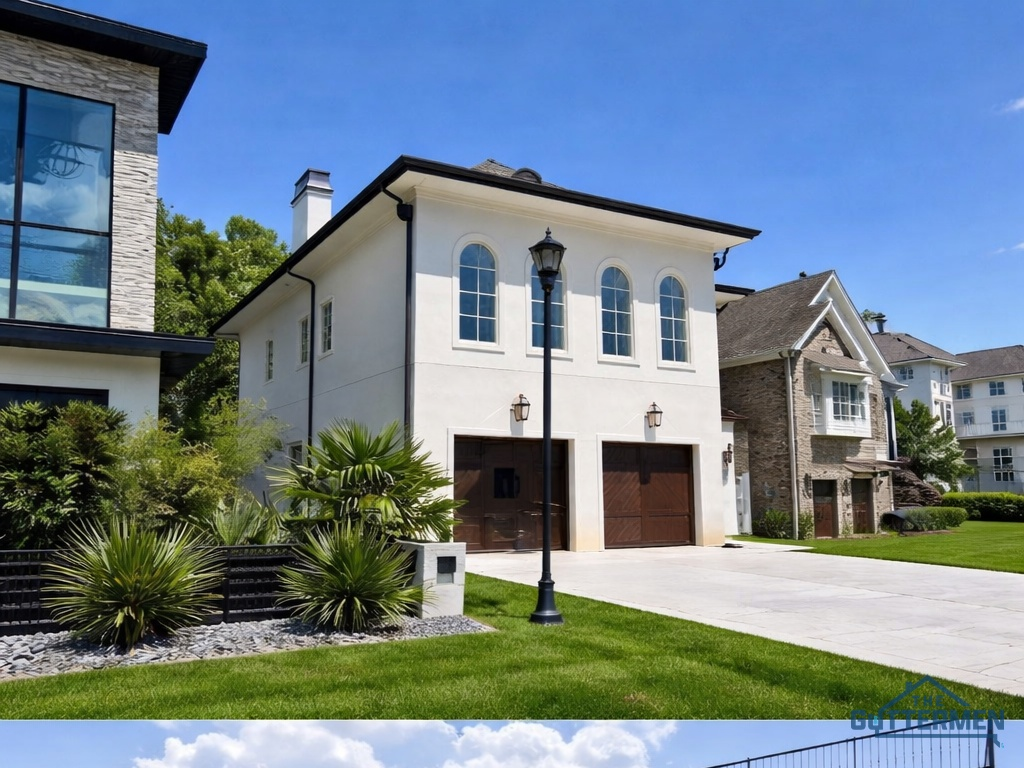
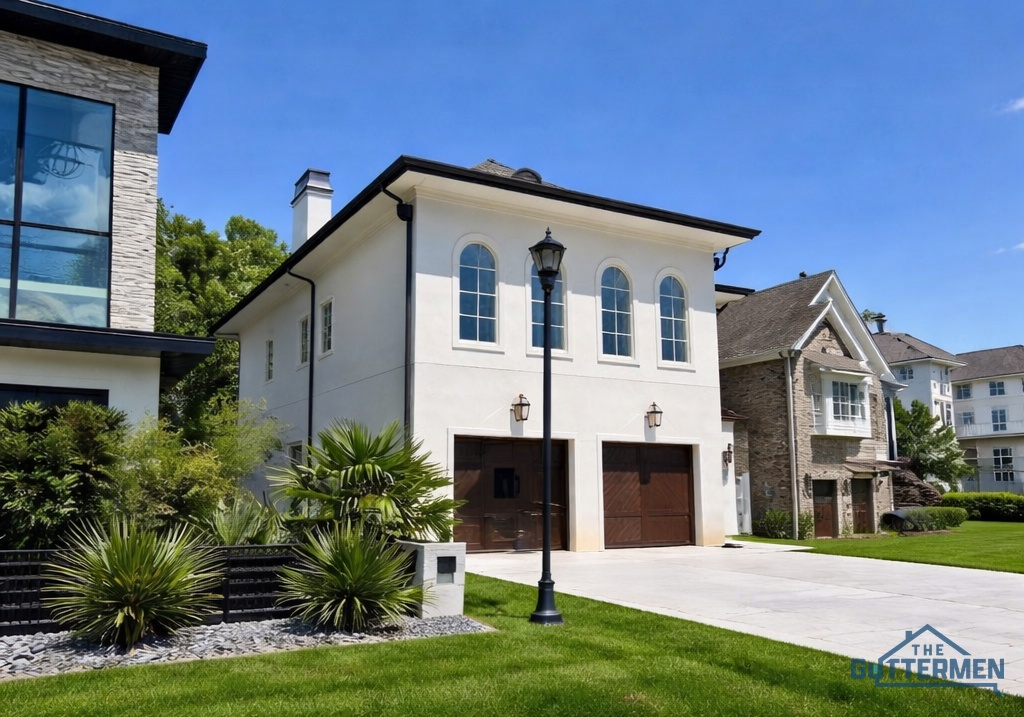
Update res-6 with guttermen_front_cleaned(1) image

diff --git a/residential-gutters/index.html b/residential-gutters/index.html
@@ -51,7 +51,7 @@ We're not going anywhere. Our workmanship warranty means if something's wrong, w
             it right.
 </p> </div> </div> </div> </section>  <section class="section-pad bg-slate-50"> <div class="container-xl mx-auto"> <div class="text-center mb-14 animate-on-scroll"> <span class="eyebrow-dark">Our Work</span> <h2 class="section-title">Real Homes. Real Results.</h2> <p class="section-sub max-w-2xl mx-auto">
 We've installed seamless gutters on thousands of South Carolina homes.
-</p> </div> <div class="grid grid-cols-2 md:grid-cols-3 gap-4 stagger-children"> <div class="aspect-[4/3] overflow-hidden rounded-xl"> <img src="/img/res-1.jpg" alt="Residential gutter installation South Carolina" class="w-full h-full object-cover hover:scale-105 transition-transform duration-300" style="object-position:right bottom" loading="lazy"> </div> <div class="aspect-[4/3] overflow-hidden rounded-xl"> <img src="/img/res-2.jpg" alt="Seamless gutter installation on home" class="w-full h-full object-cover hover:scale-105 transition-transform duration-300" style="object-position:right bottom" loading="lazy"> </div> <div class="aspect-[4/3] overflow-hidden rounded-xl"> <img src="/img/res-3.jpg" alt="Custom gutter work by The Guttermen" class="w-full h-full object-cover hover:scale-105 transition-transform duration-300" style="object-position:right bottom" loading="lazy"> </div> <div class="aspect-[4/3] overflow-hidden rounded-xl"> <img src="/img/res-4.jpg" alt="Residential gutter project Columbia SC" class="w-full h-full object-cover hover:scale-105 transition-transform duration-300" style="object-position:right bottom" loading="lazy"> </div> <div class="aspect-[4/3] overflow-hidden rounded-xl"> <img src="/img/res-5.jpg" alt="Gutter installation on South Carolina home" class="w-full h-full object-cover hover:scale-105 transition-transform duration-300" style="object-position:right bottom" loading="lazy"> </div> <div class="aspect-[4/3] overflow-hidden rounded-xl"> <img src="/img/res-6.jpg" alt="Completed residential gutter installation" class="w-full h-full object-cover hover:scale-105 transition-transform duration-300" style="object-position:right bottom" loading="lazy"> </div> </div> </div> </section>  <section class="section-pad bg-white"> <div class="container-lg mx-auto"> <div class="text-center mb-14 animate-on-scroll"> <span class="eyebrow-dark">Simple Process</span> <h2 class="section-title">From Quote to Completion in 3 Simple Steps</h2> </div> <div class="max-w-2xl mx-auto space-y-8 stagger-children"> <!-- Step 1 --> <div class="flex gap-6 items-start"> <div class="flex-shrink-0 w-14 h-14 rounded-full bg-navy flex items-center justify-center text-white text-xl font-extrabold">
+</p> </div> <div class="grid grid-cols-2 md:grid-cols-3 gap-4 stagger-children"> <div class="aspect-[4/3] overflow-hidden rounded-xl"> <img src="/img/res-1.jpg" alt="Residential gutter installation South Carolina" class="w-full h-full object-cover hover:scale-105 transition-transform duration-300" style="object-position:right bottom" loading="lazy"> </div> <div class="aspect-[4/3] overflow-hidden rounded-xl"> <img src="/img/res-2.jpg" alt="Seamless gutter installation on home" class="w-full h-full object-cover hover:scale-105 transition-transform duration-300" style="object-position:right bottom" loading="lazy"> </div> <div class="aspect-[4/3] overflow-hidden rounded-xl"> <img src="/img/res-3.jpg" alt="Custom gutter work by The Guttermen" class="w-full h-full object-cover hover:scale-105 transition-transform duration-300" style="object-position:right bottom" loading="lazy"> </div> <div class="aspect-[4/3] overflow-hidden rounded-xl"> <img src="/img/res-4.jpg" alt="Residential gutter project Columbia SC" class="w-full h-full object-cover hover:scale-105 transition-transform duration-300" style="object-position:right bottom" loading="lazy"> </div> <div class="aspect-[4/3] overflow-hidden rounded-xl"> <img src="/img/res-5.jpg" alt="Gutter installation on South Carolina home" class="w-full h-full object-cover hover:scale-105 transition-transform duration-300" style="object-position:right bottom" loading="lazy"> </div> <div class="aspect-[4/3] overflow-hidden rounded-xl"> <img src="/img/res-6.jpg" alt="Completed residential gutter installation" class="w-full h-full object-cover hover:scale-105 transition-transform duration-300" style="object-position:center top" loading="lazy"> </div> </div> </div> </section>  <section class="section-pad bg-white"> <div class="container-lg mx-auto"> <div class="text-center mb-14 animate-on-scroll"> <span class="eyebrow-dark">Simple Process</span> <h2 class="section-title">From Quote to Completion in 3 Simple Steps</h2> </div> <div class="max-w-2xl mx-auto space-y-8 stagger-children"> <!-- Step 1 --> <div class="flex gap-6 items-start"> <div class="flex-shrink-0 w-14 h-14 rounded-full bg-navy flex items-center justify-center text-white text-xl font-extrabold">
 1
 </div> <div> <h3 class="text-xl font-bold text-slate-900 mb-2">Schedule Your Walkthrough</h3> <p class="text-slate-600 leading-relaxed">
 We come to your home, measure everything, and give you an honest price on the spot.
